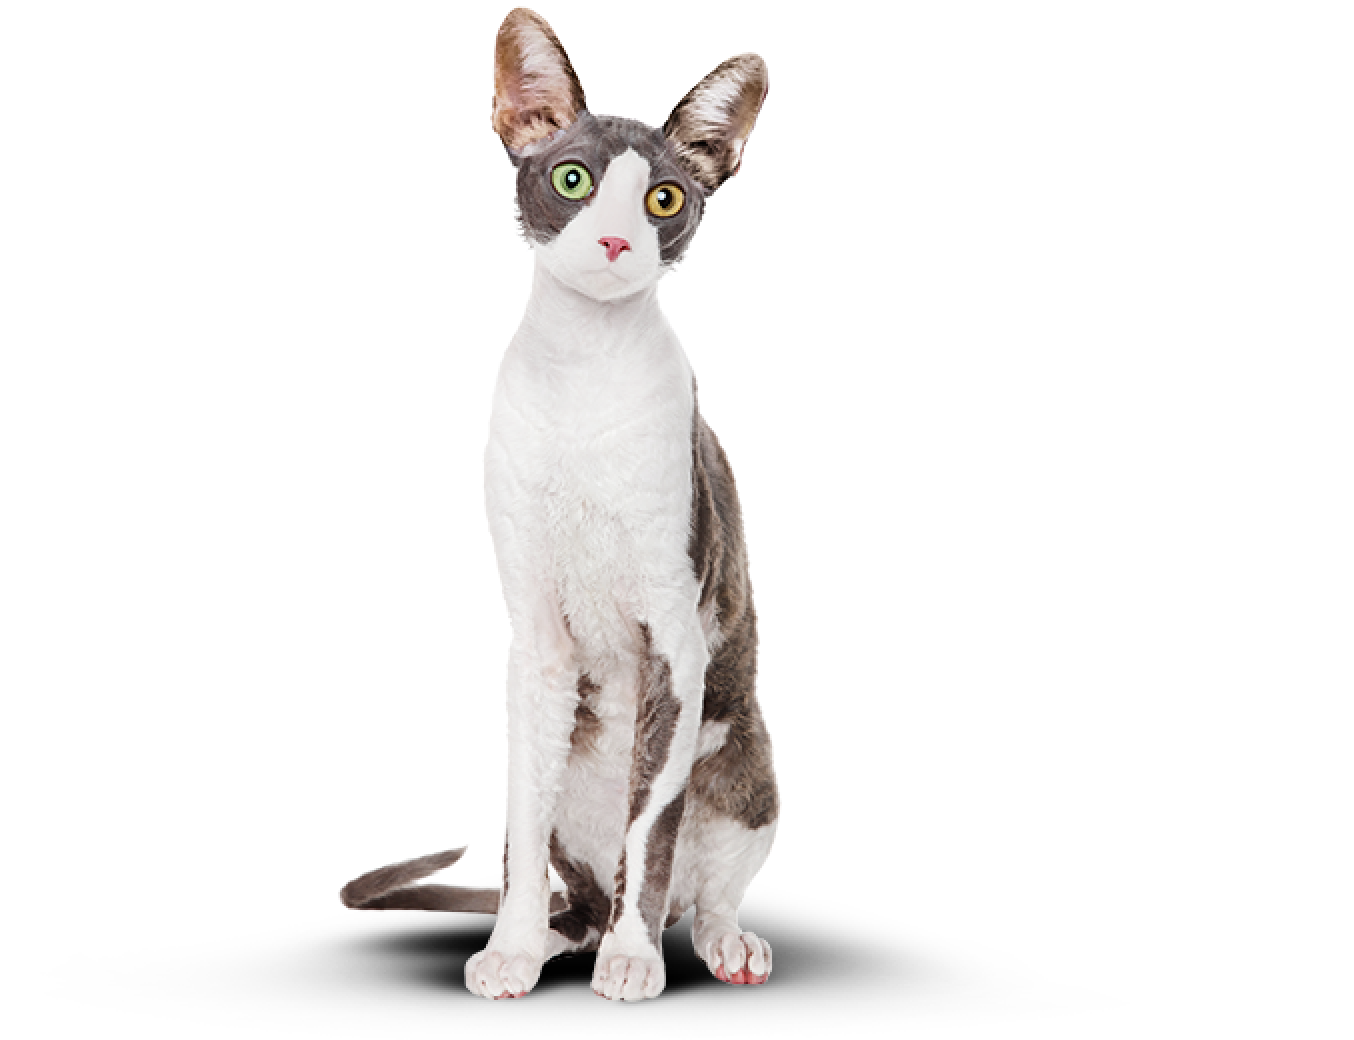
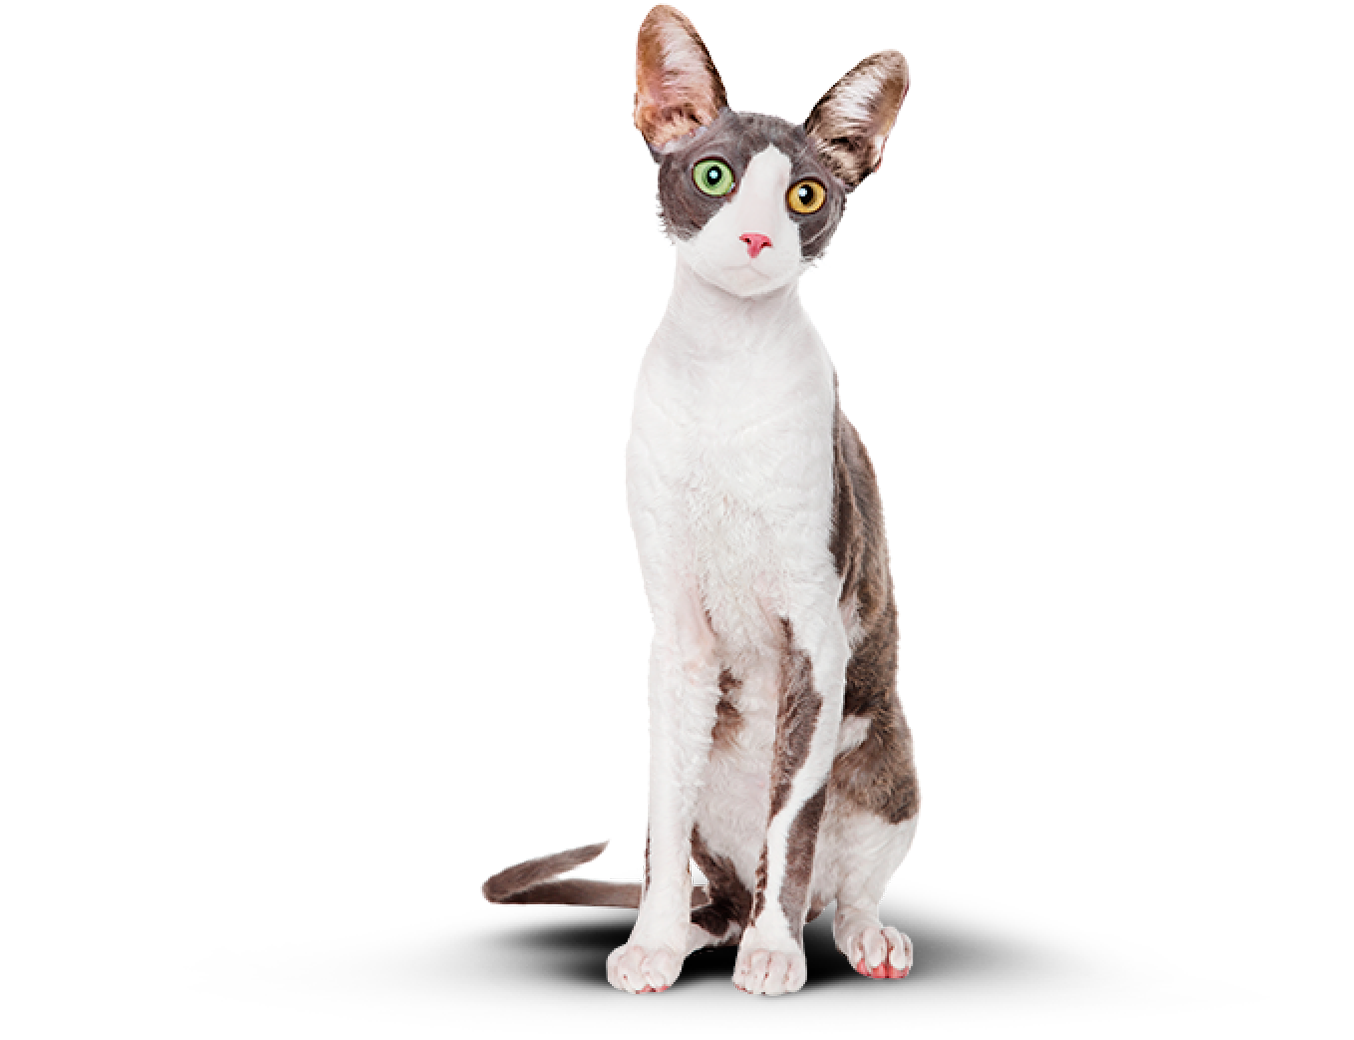
Меняет изображения котов на спозиционированные в слайдере

Changed region(s): [[0.2171, 0.0, 0.7755, 0.9846]]

diff --git a/source/index.html b/source/index.html
@@ -15,9 +15,9 @@
   <div class="page-header__container">
     <a class="page-header__logo">
       <picture class="page-header__icon">
-        <source media="(min-width:1260px)" srcset="img/desktop/descktop-logo.svg">
+        <source media="(min-width:1300px)" srcset="img/desktop/descktop-logo.svg">
         <source media="(min-width:768px)" srcset="img/tablet/tablet-logo.svg">
-        <img src="img/mobile/logo-mobile.svg" width="100%" height="100%" alt="Иконка сайта Кэт Энерджи">
+        <img src="img/mobile/logo-mobile.svg" alt="Иконка сайта Кэт Энерджи">
       </picture>
       <svg class="page-header__label-icon" width="101" height="18" aria-label="Логотип компании Cat Energy">
         <use xlink:href="img/sprite.svg#logo-label-mobile"></use>
@@ -182,20 +182,19 @@
             <!--  <img class="range__image" src="img/mobile/before-mobile_1.png" srcset="img/mobile/before-mobile_1.png 1x, img/mobile/before-mobile@2x.png 2x" alt="Кот с демонстрацией до\после">-->
             <!--</picture>-->
             <div class="range__control">
-              <button class="range__text" id="before">
+              <button class="range__text" type="button" id="before">
                 Было
               </button>
               <div class="range__input" id="circle_parent">
                 <button class="range__toggle" type="button" aria-label="Ползунок-переключатель состояния кота" id="circle"></button>
               </div>
-              <button class="range__text" id="after">
+              <button class="range__text" type="button" id="after">
                 Стало
               </button>
             </div>
           </div>
         </div>
       </div>
-    </div>
     </div>
   </section>
 

diff --git a/source/sass/components/range.scss b/source/sass/components/range.scss
@@ -52,7 +52,7 @@
 
 .range__fatcat {
   position: absolute;
-  width: 55%;
+  width: 50%;
   min-height: 230px;
   //top: 0;
   background-image: url("../img/cat-fat.webp");
@@ -65,7 +65,7 @@
 
 .range__slimcat {
   position: absolute;
-  width: 45%;
+  width: 50%;
   min-height: 230px;
   background-image: url("../img/cat-skinny.webp");
   background-size: cover;

diff --git a/source/sass/components/details.scss b/source/sass/components/details.scss
@@ -6,7 +6,7 @@
   @media (min-width: $desktop-content-width) {
     padding-top: 65px;
     width: 445px;
-    margin-right: 110px; //пробовать переделать на 125
+    margin-right: 145px; //пробовать переделать на 125
   }
 }
 
